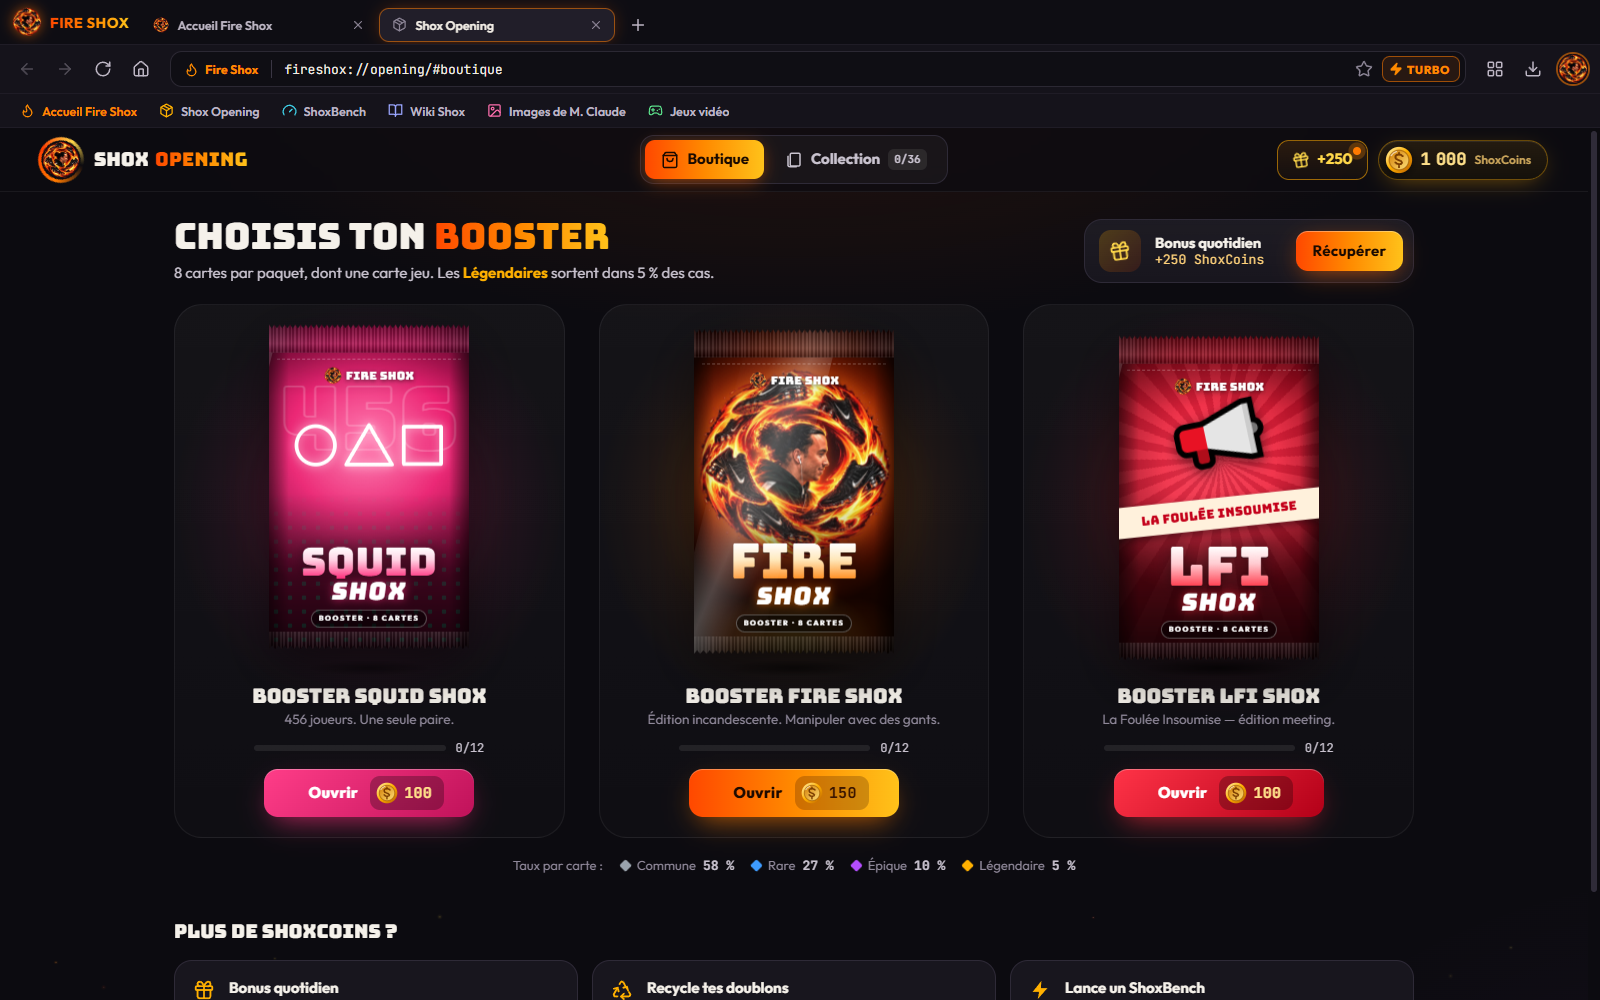
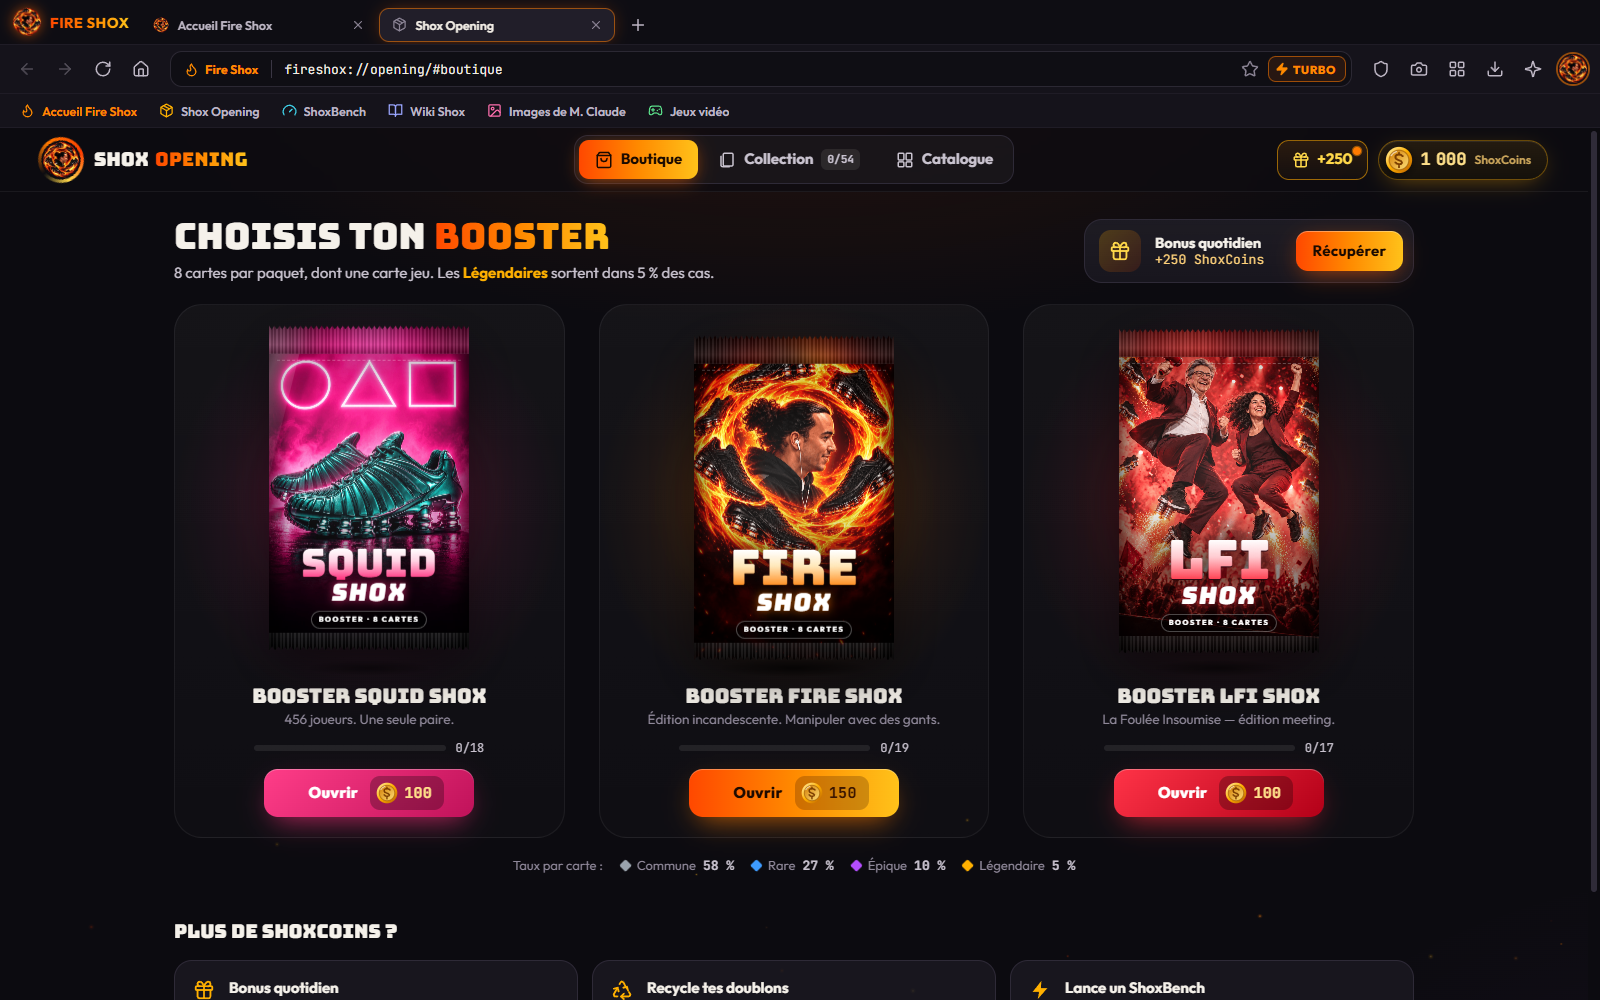
Fire Shox 1.3.1

diff --git a/site/index.html b/site/index.html
@@ -180,12 +180,16 @@
         <span class="feat-num">01</span>
         <p class="feat-tag"><svg class="ic"><use href="#i-tabs"/></svg> Le navigateur</p>
         <h3>Chromium sous le capot, des flammes par-dessus.</h3>
-        <p>Le même moteur que les navigateurs les plus utilisés au monde&#8239;: vos sites, vos vidéos, vos mails, tout marche. On a juste rajouté de quoi rester à température.</p>
+        <p>Le même moteur que les navigateurs les plus utilisés au monde&#8239;: vos sites, vos vidéos, vos mails, votre compte Google, tout marche. On a juste rajouté de quoi rester à température&#8239;: un panneau Claude sur le côté, un bloqueur de pubs, des mots de passe en un clic et des onglets qui se rangent tout seuls.</p>
         <ul class="chips">
-          <li><svg class="ic"><use href="#i-tabs"/></svg>Onglets</li>
-          <li><svg class="ic"><use href="#i-star"/></svg>Favoris</li>
-          <li><svg class="ic"><use href="#i-history"/></svg>Historique</li>
-          <li><svg class="ic"><use href="#i-dl"/></svg>Téléchargements</li>
+          <li><svg class="ic"><use href="#i-tabs"/></svg>Onglets épinglés, groupes et détachables</li>
+          <li><svg class="ic"><use href="#i-shield"/></svg>ShoxBlock, le bloqueur de pubs</li>
+          <li><svg class="ic"><use href="#i-star"/></svg>ShoxVault&#8239;: mots de passe en 1 clic</li>
+          <li><svg class="ic"><use href="#i-zap"/></svg>Panneau Claude &amp; ShoxNotes</li>
+          <li><svg class="ic"><use href="#i-history"/></svg>Mode Fantôme (navigation privée)</li>
+          <li><svg class="ic"><use href="#i-image"/></svg>ShoxShot, captures d'écran</li>
+          <li><svg class="ic"><use href="#i-book"/></svg>Traduction des pages</li>
+          <li><svg class="ic"><use href="#i-flame"/></svg>Thèmes Fire, Squid et LFI</li>
           <li><svg class="ic"><use href="#i-refresh"/></svg>Mises à jour automatiques</li>
           <li><svg class="ic"><use href="#i-zap"/></svg>Bouton TURBO <em>(effet placebo garanti)</em></li>
         </ul>
@@ -228,7 +232,7 @@
         <span class="feat-num">02</span>
         <p class="feat-tag"><svg class="ic"><use href="#i-gauge"/></svg> ShoxBench</p>
         <h3>Votre connexion, enfin mesurée en shox/s.</h3>
-        <p>Le test de débit qui répond à la seule vraie question&#8239;: combien de Shox par seconde passent dans votre box&#8239;? Lancez la mesure et regardez le <strong>Shoxomètre</strong> s'affoler.</p>
+        <p>Le test de débit qui répond à la seule vraie question&#8239;: combien de Shox par seconde passent dans votre box&#8239;? Et pour les plus courageux, le <strong>Shoxomètre politique</strong>&#8239;: vingt clichés de repas de famille, et l'aiguille vous place de l'extrême gauche à l'extrême droite.</p>
         <dl class="mini-stats">
           <div><dt>Unité</dt><dd>shox/s</dd></div>
           <div><dt>Shoxomètre</dt><dd>en surchauffe</dd></div>
@@ -277,13 +281,13 @@
         <span class="feat-num">03</span>
         <p class="feat-tag"><svg class="ic"><use href="#i-cards"/></svg> Shox Opening</p>
         <h3>Ouvrez des boosters. Collectionnez des Shox.</h3>
-        <p>Trois boosters, des Shox de toutes raretés, et ce petit frisson au moment de déchirer l'emballage. Les ShoxCoins se gagnent en jouant, pas avec votre carte bleue.</p>
+        <p>Trois boosters, 54 cartes avec la tête de toute la bande, et ce petit frisson au moment de déchirer l'emballage. Les Légendaires tombent à 5&#8239;%, le catalogue montre tout ce qu'il reste à trouver, et les ShoxCoins se gagnent en jouant, pas avec votre carte bleue.</p>
         <ul class="boosters">
           <li class="b-squid"><span class="b-dot"></span>Squid Shox</li>
           <li class="b-fire"><span class="b-dot"></span>Fire Shox</li>
           <li class="b-lfi"><span class="b-dot"></span>LFI Shox</li>
         </ul>
-        <p class="rarities"><span class="r1">Commune</span><span class="r2">Rare</span><span class="r3">Épique</span><span class="r4">Légendaire</span><span class="r5">Mythique</span></p>
+        <p class="rarities"><span class="r1">Commune</span><span class="r2">Rare</span><span class="r3">Épique</span><span class="r4">Légendaire</span></p>
       </div>
       <figure class="shot reveal" data-shot style="--d:.1s">
         <img src="img/shots/opening.png" alt="Capture d'écran de Shox Opening et de ses boosters" loading="lazy" decoding="async">
@@ -331,7 +335,7 @@
         <div class="card-body">
           <p class="feat-tag"><svg class="ic"><use href="#i-book"/></svg> Wiki Shox</p>
           <h3>L'encyclopédie brûlante.</h3>
-          <p>Tout le savoir de l'humanité sur ce qui rebondit&#8239;: modèles, légendes, et la théorie complète de l'amorti gravitationnel.</p>
+          <p>Le wiki de la bande, modifiable par tous comme Wikipédia&#8239;: chacun corrige, complète ou crée une page, et tout le monde voit les changements. L'historique garde chaque version.</p>
         </div>
       </article>
 
@@ -358,7 +362,7 @@
         </div>
       </article>
 
-      <article class="card card-soon reveal" style="--d:.16s">
+      <article class="card reveal" style="--d:.16s">
         <figure class="shot" data-shot>
           <img src="img/shots/jeux.png" alt="Capture d'écran des jeux vidéo Fire Shox" loading="lazy" decoding="async">
           <div class="ph ph-games" aria-hidden="true">
@@ -370,9 +374,9 @@
           </div>
         </figure>
         <div class="card-body">
-          <p class="feat-tag"><svg class="ic"><use href="#i-gamepad"/></svg> Jeux vidéo <span class="soon">À venir</span></p>
+          <p class="feat-tag"><svg class="ic"><use href="#i-gamepad"/></svg> Jeux vidéo</p>
           <h3>Des jeux, directement dedans.</h3>
-          <p>Ils arrivent dans une prochaine mise à jour. Comme les mises à jour sont automatiques, vous n'aurez rien à faire. On préchauffe la salle.</p>
+          <p>Premier arrivé&#8239;: <strong>Shox Runner</strong>, Le Y qui saute les plots et les poubelles du blocus. Il s'affiche même tout seul quand internet coupe. Les cartes QR des boosters en débloqueront d'autres.</p>
         </div>
       </article>
     </div>
@@ -426,6 +430,11 @@
         <span role="cell" class="vs-them"><svg class="ic no"><use href="#i-x"/></svg>Aucun. Triste.</span>
       </div>
       <div class="vs-row" role="row">
+        <span role="rowheader" class="vs-crit">Bloqueur de pubs</span>
+        <span role="cell" class="vs-us"><svg class="ic yes"><use href="#i-check"/></svg>ShoxBlock, de série</span>
+        <span role="cell" class="vs-them"><svg class="ic meh"><use href="#i-check"/></svg>Extension à aller chercher</span>
+      </div>
+      <div class="vs-row" role="row">
         <span role="rowheader" class="vs-crit">Moteur Chromium</span>
         <span role="cell" class="vs-us"><svg class="ic yes"><use href="#i-check"/></svg>Oui</span>
         <span role="cell" class="vs-them"><svg class="ic meh"><use href="#i-check"/></svg>Pour beaucoup, oui. Bon.</span>
@@ -473,7 +482,7 @@
 
       <details>
         <summary><span>Comment se font les mises à jour&#8239;?</span><svg class="ic"><use href="#i-chev"/></svg></summary>
-        <div class="faq-a"><p>Toutes seules. Fire Shox vérifie au démarrage puis régulièrement s'il existe une nouvelle version, la télécharge en arrière-plan et l'installe quand vous fermez le navigateur. Votre seul travail&#8239;: rester incandescent.</p></div>
+        <div class="faq-a"><p>Toutes seules. Fire Shox vérifie au démarrage puis régulièrement s'il existe une nouvelle version et la télécharge en arrière-plan. Ensuite, un clic sur <strong>«&#8239;Mettre à jour&#8239;»</strong> redémarre le navigateur à jour avec vos onglets, sans aucune fenêtre d'installation&#8239;; sinon, elle s'installe toute seule à la fermeture. Votre seul travail&#8239;: rester incandescent.</p></div>
       </details>
 
       <details>
@@ -483,7 +492,7 @@
 
       <details>
         <summary><span>C'est un vrai navigateur ou juste une blague&#8239;?</span><svg class="ic"><use href="#i-chev"/></svg></summary>
-        <div class="faq-a"><p>Les deux. C'est une grosse blague entre potes, mais un vrai navigateur&#8239;: moteur Chromium, onglets, favoris, historique, téléchargements. Vous pouvez faire tout ce que vous faites d'habitude, avec des flammes en plus.</p></div>
+        <div class="faq-a"><p>Les deux. C'est une grosse blague entre potes, mais un vrai navigateur&#8239;: moteur Chromium, connexion Google, mots de passe enregistrés et chiffrés, bloqueur de pubs, navigation privée, onglets, favoris, historique, téléchargements. Vous pouvez faire tout ce que vous faites d'habitude, avec des flammes en plus.</p></div>
       </details>
 
       <details>
@@ -498,7 +507,7 @@
 
       <details>
         <summary><span>Mes données partent où&#8239;?</span><svg class="ic"><use href="#i-chev"/></svg></summary>
-        <div class="faq-a"><p>Nulle part chez nous&#8239;: favoris, historique et progression restent sur votre ordinateur. Fire Shox Corp n'a pas de serveur, seulement des Shox. Les seuls à voir passer quelque chose sont les sites que vous visitez, et GitHub quand Fire Shox cherche une mise à jour.</p></div>
+        <div class="faq-a"><p>Nulle part chez nous&#8239;: favoris, historique, mots de passe (chiffrés par Windows) et progression restent sur votre ordinateur. Fire Shox Corp n'a pas de serveur, seulement des Shox. Ce qui sort&#8239;: les sites que vous visitez, GitHub quand Fire Shox cherche une mise à jour, les listes du bloqueur de pubs, Google Traduction si vous traduisez une page, et ce que vous écrivez dans le <strong>Wiki Shox</strong>, qui est public et lisible par tous.</p></div>
       </details>
 
       <details>

diff --git a/src/pages/opening/data.js b/src/pages/opening/data.js
@@ -137,6 +137,12 @@
         { id: 'virgil', name: 'Virgil', sub: 'Une coupe, un sourcil, un empire', rarity: 'epic', stats: [70, 55, 88],
           img: 'memes/virgil.webp', frame: 'tall', focus: '50% 40%',
           text: 'Une coupe à la main et un sourcil levé, regard de PDG : Virgil fête quelque chose. Personne ne sait quoi, mais il le fête très bien.' },
+        { id: 'polo-ott', name: 'La Polo OTT', sub: 'Le carrosse rouge d\'Axel.OTT', rarity: 'rare', stats: [80, 45, 70],
+          img: 'memes/polo-ott.webp', frame: 'window', focus: '50% 50%',
+          text: 'Rouge feu et siège conducteur réglé en mode chill : la Polo d\'Axel.OTT emmène toute la bande au BK. Elle n\'a pas de ressorts, mais elle rebondit sur chaque dos-d\'âne.' },
+        { id: 'bk-saint-geosmes', name: 'BK Saint-Geosmes', sub: 'Grillé à la flamme depuis 1954', rarity: 'epic', stats: [99, 30, 75],
+          img: 'memes/bk-saint-geosmes.webp', frame: 'window', focus: '50% 30%',
+          text: 'Le QG officiel après les cours. Les burgers y sont grillés à la flamme, et les milkshakes renversés de Meusieur IA classés monument historique.' },
         { id: 'cafe-clope-ancien', name: 'Café-Clope', sub: 'Le rituel sacré de l\'Ancien, 7 h 58', rarity: 'epic', stats: [85, 10, 60],
           img: 'memes/cafe-clope-ancien.webp', frame: 'window', focus: '50% 45%',
           text: 'Un café noir, une clope, une montre qui tourne : avant chaque épreuve, l\'Ancien respecte le rituel. Les Shox chauffent toutes seules à côté de lui.' },
@@ -193,6 +199,9 @@
         { id: 'theo-caviezel-mob', name: 'Théo Caviezel', sub: 'Le Maire en tournée à mobylette', rarity: 'epic', stats: [70, 88, 60],
           img: 'memes/theo-caviezel-mob.webp', frame: 'tall', focus: '50% 40%',
           text: 'Bonnet bleu, mobylette et grand sourire : le maire fait la tournée des chemins. Promesse de campagne : une paire de Shox par administré, et des ressorts sur la mob.' },
+        { id: 'lycee-diderot', name: 'Lycée Denis-Diderot', sub: 'Le QG du blocus', rarity: 'epic', stats: [70, 20, 100],
+          img: 'memes/lycee-diderot.webp', frame: 'window', focus: '50% 50%',
+          text: 'Là où tout a commencé : les cours de STI2D, les poubelles du blocus et les discours d\'OCB au mégaphone. Ce portail n\'a jamais vu passer autant de Shox.' },
         { id: 'meusieur-ia', name: 'Meusieur IA', sub: 'Malo, prédiction : milkshake renversé', rarity: 'epic', stats: [100, 30, 12],
           img: 'memes/meusieur-ia.webp', frame: 'tall', fit: 'contain',
           text: 'Meusieur IA a calculé 14 milliards de scénarios avant de renverser son milkshake. Résultat : une œuvre d\'art à la vanille sur la table. Taux de réussite annoncé : 100 %.' },
